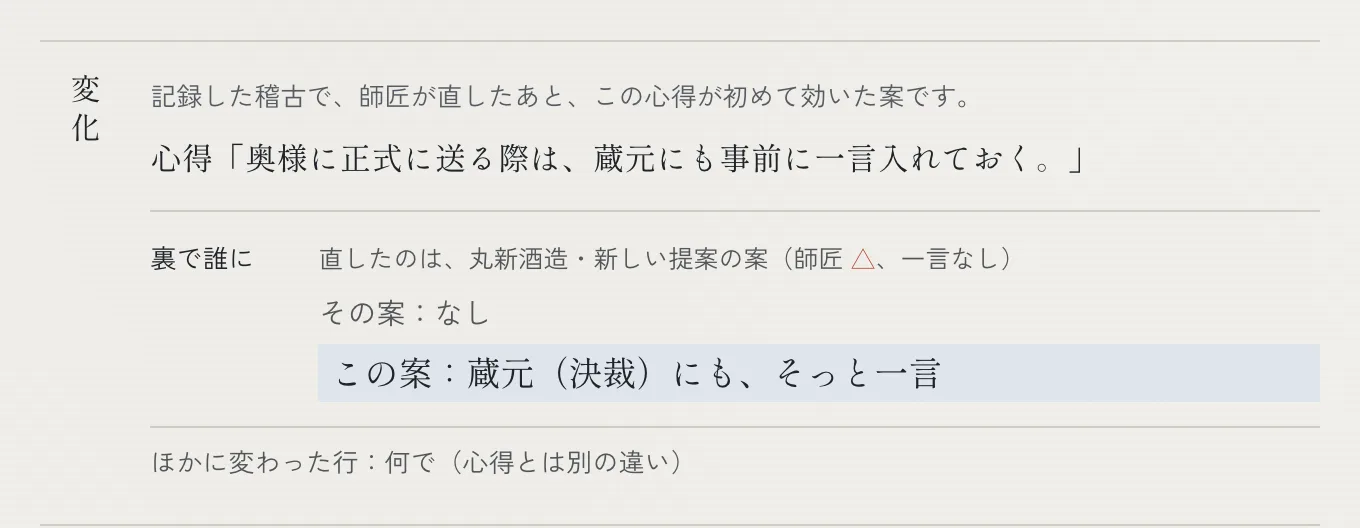
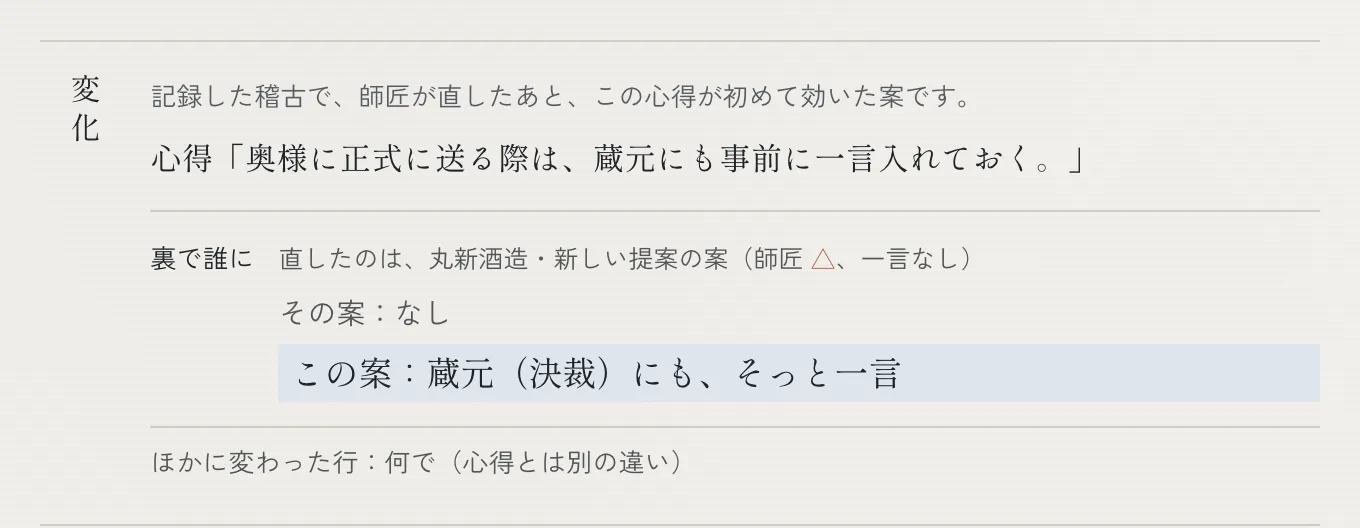
ui-critic round 8: 「何で（手段）」 and 決裁者へ根回し no longer wrap, 案の「変化」 (no 「左」 on phones), no strikethrough after 前は in 沿革, the question just answered is not offered again, 心得1つ spacing; README pictures re-shot

Changed region(s): [[0.1853, 0.4545, 0.7412, 0.5152], [0.2162, 0.6667, 0.7103, 0.7576], [0.2162, 0.5758, 0.3397, 0.6364]]

diff --git a/app/choba/page.tsx b/app/choba/page.tsx
@@ -61,7 +61,7 @@ function ProposalView({ p, client, ruleText }: { p: Proposal; client: Client; ru
           <Row main label="誰に" gloss="表の連絡、正式に">{toWhom(p, client)}</Row>
           <Row main label="何で">{means(p)}</Row>
           <Row main label="いつ">{TIMING_JA[p.timing]}</Row>
-          <Row main label="裏で誰に" gloss="決裁者などへ根回し">{quiet ?? <span className="text-nibi">なし</span>}</Row>
+          <Row main label="裏で誰に" gloss="決裁者へ根回し">{quiet ?? <span className="text-nibi">なし</span>}</Row>
           <Row main label="後日">{p.followUp ? "あらためて、あいさつを入れる" : <span className="text-nibi">なし</span>}</Row>
         </dl>
         {p.escalateToMaster && (
@@ -124,8 +124,8 @@ function EffectView({ effect, client, draft, words, ruleHref, recorded }: { effe
         return (
           <>
             {point && (
-              <dl className="mt-3 grid grid-cols-[4.5rem_1fr] gap-x-3 gap-y-1.5 border-y border-keisen py-3">
-                <dt className="text-[13px] text-sumi">{({ 何で: "何で（手段）", いつ: "いつ（時期）" } as Record<string, string>)[point.label] ?? point.label}</dt>
+              <dl className="mt-3 grid grid-cols-[auto_1fr] gap-x-3 gap-y-1.5 border-y border-keisen py-3">
+                <dt className="whitespace-nowrap text-[13px] text-sumi">{({ 何で: "何で（手段）", いつ: "いつ（時期）" } as Record<string, string>)[point.label] ?? point.label}</dt>
                 <dd className="grid gap-1">
                   <span className="text-[12.5px] text-sumi/75">
                     直したのは、{words(before.sceneId)}の案（師匠 <span className="font-mincho text-shu">{before.verdict}</span>
@@ -541,7 +541,7 @@ export default async function ChobaPage() {
         {recent.length ? (
           <ul className="mt-3">{recent.map((p) => <PendingItem key={p.judgmentId} p={p} ruleText={ruleText} words={words} sceneOf={(id) => meta.queue.find((q) => q.scene.id === id)?.scene ?? TRAIN_SCENES.find((t) => t.id === id)} beforeOf={(id) => judgments.find((j) => j.id === id)?.proposal} />)}</ul>
         ) : (
-          <p className="mt-4 text-[14px] text-nibi">このセッションで付けた △・× は、まだありません。付けると、ここに弟子の読み取りが出ます。{effect && effectRecorded && "左の「変化」は、記録した稽古での直しから出たものです。"}</p>
+          <p className="mt-4 text-[14px] text-nibi">このセッションで付けた △・× は、まだありません。付けると、ここに弟子の読み取りが出ます。{effect && effectRecorded && "案の「変化」は、記録した稽古での直しから出たものです。"}</p>
         )}
       </aside>
     </div>

diff --git a/app/noren/page.tsx b/app/noren/page.tsx
@@ -71,7 +71,7 @@ function Turn({ t, ruleText }: { t: SuccessorTurn; ruleText: (id: string) => str
                 const fact = t.citations.filter((c) => /出典[:：]\s*台帳/.test(c.history)).length;
                 const rule = t.citations.length - fact;
                 if (!t.citations.length) return "なし（心得帳に記録がないので、師匠に確認を勧める）";
-                return [rule && `心得 ${rule} つ`, fact && `台帳の事実 ${fact} つ`].filter(Boolean).join("・") + "（下に、わけと沿革）";
+                return [rule && `心得${rule}つ`, fact && `台帳の事実${fact}つ`].filter(Boolean).join("・") + "（下に、わけと沿革）";
               })()}
             </p>
           </section>
@@ -95,7 +95,7 @@ function Turn({ t, ruleText }: { t: SuccessorTurn; ruleText: (id: string) => str
                   ) : (
                     <p className="yomi text-[16.5px]">{h.rule}</p>
                   )}
-                  {h.before && <p className="yomi text-[14px] text-nibi">前は <del className="decoration-sumi/40">{h.before}</del></p>}
+                  {h.before && <p className="yomi text-[14px] text-nibi">前は：{h.before}</p>}
                   {h.why && <p className="yomi text-[14px]"><span className="text-nibi">わけ：</span>{h.why}</p>}
                   <p className="text-[12.5px] text-nibi">
                     {h.source && <>出どころ：{h.source}　</>}
@@ -127,7 +127,8 @@ export default async function NorenPage() {
     <section aria-labelledby="ex-h" className="mt-10">
       <h2 id="ex-h" className="font-mincho text-[18px]">{answers.length ? "ほかに聞けること" : "たとえば、後任がよく迷うこと"}</h2>
       <form action={ask} className="mt-3 border-y border-sumi/50">
-        {examplesInOrder().map((q) => (
+        {/* The question just answered is not offered again (ui-critic 11/5: tapping it looks like nothing happened). */}
+        {examplesInOrder().filter((q) => !(answers[0] && q.clientId === answers[0].clientId && q.question === answers[0].question)).map((q) => (
           <button
             key={q.id}
             name="preset"

diff --git a/app/kokoroe/page.tsx b/app/kokoroe/page.tsx
@@ -75,7 +75,7 @@ function Rule({ r, fact = false, used = [] }: { r: KokoroeRule; fact?: boolean; 
                 </p>
                 {h.before && (
                   <p className="yomi text-[14px] text-nibi">
-                    前は <del className="decoration-sumi/40">{h.before}</del>
+                    前は：{h.before}
                   </p>
                 )}
                 {h.trigger && (

diff --git a/docs/ui-polish-log.md b/docs/ui-polish-log.md
@@ -312,3 +312,13 @@ evaluation reads are unchanged.
 - **入れなかったもの:** 記録済みの答えの「この規則は」（モデルの出力そのもの。記録は書き換えない）。心得帳の画像の「この心得を消す」（「消せます」の説明に要る）。s04b の「裏で蔵元に一言」は、動画の s05 で師匠が打つ一言と同じで、README の1枚目（記録の稽古では一言なし）とは別の場面の話。s05 の画面の右半分の空き（帳場の右の欄。記録データでは読み取りが出ない）。
 - **s05 の △ の前の「飛び」（Kento 11/5）:** カードが長く、△ を押すときに Playwright の自動スクロールで画面が一瞬で大きく動いていた。押す直前に判定の欄まで 1.4 秒かけてゆっくり動かす（`glideTo`、ゆっくり始まりゆっくり止まる）。読む間を 8.0 秒から 6.4 秒に縮めて吸収し、△ を押す時刻（約 8 秒、「師匠は、△。」）と場面の尺（22.0 秒）は同じ。動画の合計も 2:56.2 のまま。静止画: `docs/screens/video-dryrun/s05-choba-glide-1〜3.jpg`（動く前・途中・押したところ）。
   - つまずき: ページの中で動かす関数を tsx が `__name()` で包み、ブラウザ側で未定義になった。文字列で渡すようにした。
+
+## ui-critic（8回目、`22-critic7/` → 直したあと `23-critic7-fixes/`）
+
+- 講評は「凍結してよい」。小さい4点を入れた（記録済みのデータ、API なし）:
+  - 帳場「変化」の行の名前「何で（手段）」が「手／段」で折れていた → 折らない（列の幅を中身に合わせる）。段取りの「裏で誰に」の添え書きを「決裁者へ根回し」に（スマホで「し」だけが次の行に残っていた）。
+  - 右の欄の「左の「変化」は…」→「案の「変化」は…」（スマホでは欄が案の下にあり、左に何もない）。
+  - 暖簾を継ぐ・心得帳の沿革の「前は」のあとの打ち消し線をやめ、「前は：」に（7回目の「変化」と同じ理由。小さい灰色の文に線が入ると読みにくい）。
+  - 暖簾を継ぐ「ほかに聞けること」から、いま答えた質問を外した（押しても同じ答えが出て、何も起きないように見える）。
+  - 「心得 1 つ」の数字のまわりの空きをやめた（明朝で全角に見えていた）。
+- README の画像を撮り直した（1枚目は「何で」の行、3枚目は数の書き方が変わったため）。
